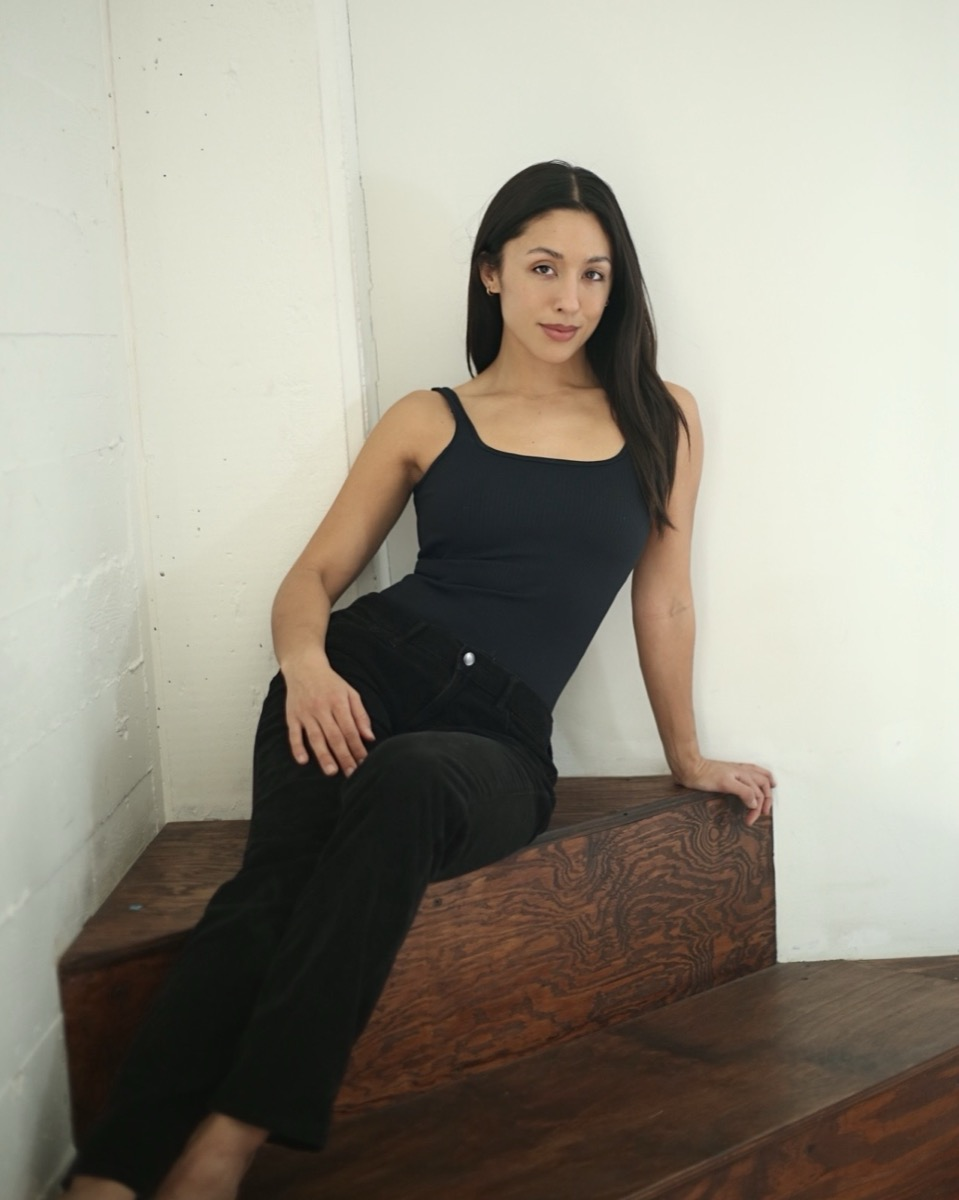
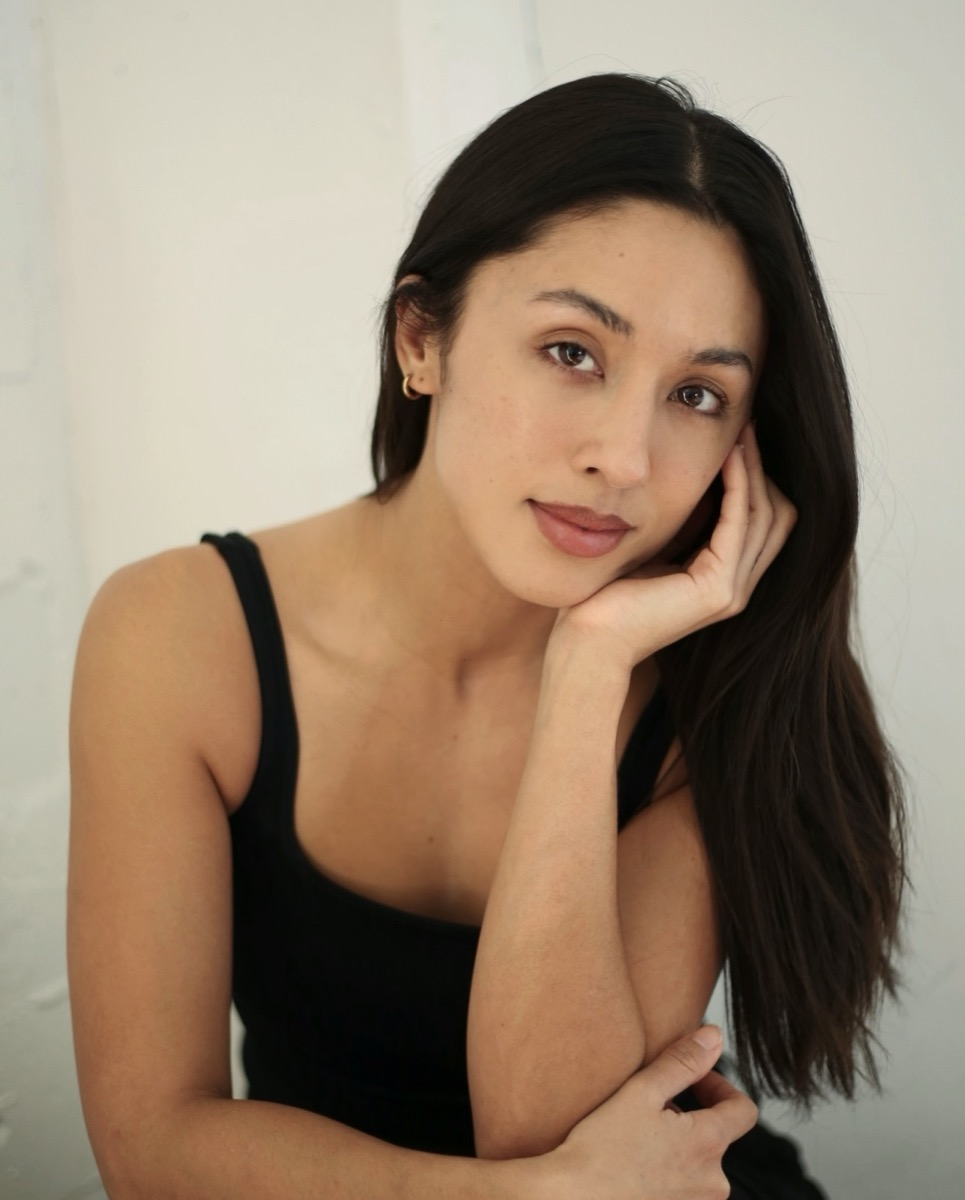
Acting: headshot grid replaces marquee, slow production marquee, fix photo cropping

diff --git a/acting.html b/acting.html
@@ -60,34 +60,23 @@
       </div>
     </section>
 
-    <!-- HEADSHOT MARQUEE -->
-    <div class="photo-marquee-wrap">
-      <div class="photo-marquee-track">
-        <img class="photo-slide portrait" src="images/acting/1.jpg" alt="Juliet Fessel">
-        <img class="photo-slide portrait" src="images/acting/2.JPG" alt="Juliet Fessel">
-        <img class="photo-slide portrait" src="images/acting/3.JPG" alt="Juliet Fessel">
-        <img class="photo-slide portrait" src="images/acting/3.5.JPG" alt="Juliet Fessel">
-        <img class="photo-slide portrait" src="images/acting/4.jpg" alt="Juliet Fessel">
-        <img class="photo-slide portrait" src="images/acting/5.JPG" alt="Juliet Fessel">
-        <img class="photo-slide portrait" src="images/acting/6.jpg" alt="Juliet Fessel">
-        <img class="photo-slide portrait" src="images/acting/7.jpg" alt="Juliet Fessel">
-        <img class="photo-slide portrait" src="images/acting/8.jpg" alt="Juliet Fessel">
-        <img class="photo-slide portrait" src="images/acting/9.jpg" alt="Juliet Fessel">
-        <img class="photo-slide portrait" src="images/acting/12.jpg" alt="Juliet Fessel">
-        <img class="photo-slide portrait" src="images/acting/14.JPG" alt="Juliet Fessel">
-        <img class="photo-slide portrait" src="images/acting/1.jpg" alt="Juliet Fessel">
-        <img class="photo-slide portrait" src="images/acting/2.JPG" alt="Juliet Fessel">
-        <img class="photo-slide portrait" src="images/acting/3.JPG" alt="Juliet Fessel">
-        <img class="photo-slide portrait" src="images/acting/3.5.JPG" alt="Juliet Fessel">
-        <img class="photo-slide portrait" src="images/acting/4.jpg" alt="Juliet Fessel">
-        <img class="photo-slide portrait" src="images/acting/5.JPG" alt="Juliet Fessel">
-        <img class="photo-slide portrait" src="images/acting/6.jpg" alt="Juliet Fessel">
-        <img class="photo-slide portrait" src="images/acting/7.jpg" alt="Juliet Fessel">
-        <img class="photo-slide portrait" src="images/acting/8.jpg" alt="Juliet Fessel">
-        <img class="photo-slide portrait" src="images/acting/9.jpg" alt="Juliet Fessel">
-        <img class="photo-slide portrait" src="images/acting/12.jpg" alt="Juliet Fessel">
-        <img class="photo-slide portrait" src="images/acting/14.JPG" alt="Juliet Fessel">
-      </div>
+    <!-- HEADSHOTS -->
+    <div class="section-header">
+      <span class="section-label">01</span>
+      <span class="section-title">Headshots</span>
+    </div>
+    <div class="headshot-gallery">
+      <img src="images/acting/1.jpg" alt="Juliet Fessel">
+      <img src="images/acting/2.JPG" alt="Juliet Fessel">
+      <img src="images/acting/3.JPG" alt="Juliet Fessel">
+      <img src="images/acting/3.5.JPG" alt="Juliet Fessel">
+      <img src="images/acting/4.jpg" alt="Juliet Fessel">
+      <img src="images/acting/6.jpg" alt="Juliet Fessel">
+      <img src="images/acting/7.jpg" alt="Juliet Fessel">
+      <img src="images/acting/8.jpg" alt="Juliet Fessel">
+      <img src="images/acting/9.jpg" alt="Juliet Fessel">
+      <img src="images/acting/14.JPG" alt="Juliet Fessel">
+      <img src="images/acting/15.JPG" alt="Juliet Fessel">
     </div>
 
     <!-- SIZES -->
@@ -109,7 +98,7 @@
 
     <!-- REEL + TRAINING SIDE BY SIDE -->
     <div class="section-header">
-      <span class="section-label">01</span>
+      <span class="section-label">02</span>
       <span class="section-title">Demo Reel</span>
     </div>
     <div class="reel-training-split">
@@ -151,7 +140,7 @@
 
     <!-- REPRESENTATION -->
     <div class="section-header">
-      <span class="section-label">02</span>
+      <span class="section-label">03</span>
       <span class="section-title">Representation</span>
     </div>
     <section class="rep-section">
@@ -169,7 +158,7 @@
 
     <!-- CREDITS -->
     <div class="section-header">
-      <span class="section-label">03</span>
+      <span class="section-label">04</span>
       <span class="section-title">Credits</span>
     </div>
 

diff --git a/styles.css b/styles.css
@@ -213,7 +213,7 @@ main {
   display: flex;
   gap: 6px;
   height: 100%;
-  animation: marquee 28s linear infinite;
+  animation: marquee 80s linear infinite;
   width: max-content;
 }
 
@@ -222,10 +222,29 @@ main {
 }
 
 .photo-slide {
-  width: 380px;
   height: 100%;
+  width: auto;
   flex-shrink: 0;
+}
+
+/* ─── PHOTO SLIDE VARIANTS ─── */
+.photo-slide.portrait { width: auto; }
+.photo-slide.landscape { width: auto; }
+
+/* ─── HEADSHOT GALLERY ─── */
+.headshot-gallery {
+  display: grid;
+  grid-template-columns: repeat(6, 1fr);
+  gap: 4px;
+  padding: 1.5rem 2.5rem;
+  border-bottom: 1px solid var(--border);
+}
+
+.headshot-gallery img {
+  width: 100%;
+  aspect-ratio: 3 / 4;
   object-fit: cover;
+  display: block;
 }
 
 /* ─── CREDITS DROPDOWN ─── */